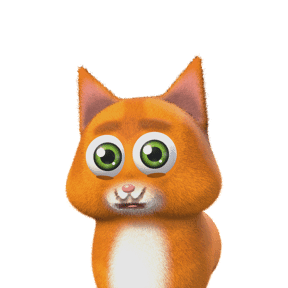
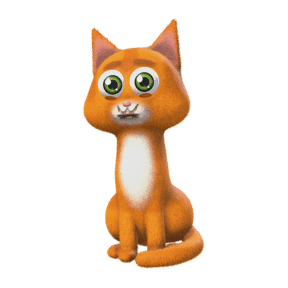
Ganze Figuren nach Vorlage, Teil 2: Mops, Retriever, Katze, Siamkatze, Hase

diff --git a/tools/figuren_rendern/Tiere.swift b/tools/figuren_rendern/Tiere.swift
@@ -563,15 +563,17 @@ func katzenFigur(_ art: KatzenArt) -> (SCNNode, Float, V) {
     let maul = mitMaul(mitB, Maul(kurven: [Kurve(punkte: [V(0, -0.08, 0.84), V(0, -0.15, 0.84)], spitzHinten: false)]
         + paar(Kurve(punkte: [V(0, -0.15, 0.84), V(0.06, -0.20, 0.83), V(0.12, -0.19, 0.80), V(0.17, -0.14, 0.76)], spitzVorn: false)),
         r: 0.018, farbe: art.braue, staerke: 0.8, hoehlen: hoehle, innen: hex("#93323A")))
-    let bau = Bau(brust: 1.15, tiefe: 1.2, hals: 0.42, bein: 0.16, beinAbstand: 0.24, ruecken: 0.70)
-    let koerper = brustbild(maul, vierbeiner(bau), farbe: { p, _ in art.rumpf(p) })
-    let w = SCNNode(); w.addChildNode(brustKnoten(koerper))
+    // Sitzend, schlank, der Schwanz legt sich vorn um die Pfoten.
+    let sitz = sitzLeib(Sitz(breite: 0.85, bein: 0.14, keule: 0.95,
+        schwanz: [V(0.60, -2.45, -0.60), V(0.85, -2.58, 0.10), V(0.55, -2.62, 0.62), V(0.05, -2.64, 0.78)], schwanzR: [0.14, 0.14, 0.13, 0.10]))
+    let koerper = brustbild(maul, sitz.formen, farbe: { p, _ in art.rumpf(p) })
+    let w = SCNNode(); w.addChildNode(ganzKnoten(koerper))
     trickNase(w, mitte: V(0, -0.03, 0.85), r: V(0.07, 0.045, 0.045), farbe: art.nase)
     zunge(w, mitte: V(0, -0.24, 0.76), breite: 0.10, hoehe: 0.08, offen: 0.0)
     augenEinsetzen(w, kopf, x: 0.27, y: 0.30, r: 0.15, tiefe: 0.24, iris: art.iris,
                    pupille: 0.55, ausdruck: Ausdruck(oben: 0.06, unten: 0.0, schraeg: 0.04, funke: 1.6, groesse: 1.65))
     w.eulerAngles = SCNVector3(0.05, -0.22, 0.06)
-    return (w, 7.6, V(0, 0.20, 0))
+    return (w, 9.3, V(0, -1.0, 0))
 }
 
 func katze() -> (SCNNode, Float, V) {
@@ -602,6 +604,7 @@ struct Sitz {
     var keule: Float = 1           // Groesse der Hinterkeulen
     var schwanz: [V] = []
     var schwanzR: [Float] = []
+    var kurz: Float = 1            // < 1: gedrungener Leib unter einem grossen Kopf (Hase, Mops)
 }
 struct SitzTeile { var formen: [Form]; var beine: [Form]; var pfoten: [Form]; var schwanz: [Form] }
 func sitzLeib(_ s: Sitz) -> SitzTeile {
@@ -619,7 +622,13 @@ func sitzLeib(_ s: Sitz) -> SitzTeile {
         pfoten.append(Form(art: .ellipsoid(V(s.bein * 1.05, 0.10, s.bein * 1.5)), mitte: V(0.29 * b * x, -2.62, 0.56), weich: 0.08))
     }
     let schwanz = s.schwanz.count > 1 ? glied(s.schwanz, s.schwanzR) : []
-    return SitzTeile(formen: f + beine + pfoten + schwanz, beine: beine, pfoten: pfoten, schwanz: schwanz)
+    // Stauchen um den Halsansatz (y = -0,6): Lage und Hoehe aller Teile.
+    func kurz(_ g: [Form]) -> [Form] {
+        guard s.kurz != 1 else { return g }
+        return g.map { var h = $0; h.mitte.y = -0.6 + (h.mitte.y + 0.6) * s.kurz; h.stauchung.y *= s.kurz; return h }
+    }
+    let (fk, bk, pk, sk) = (kurz(f), kurz(beine), kurz(pfoten), kurz(schwanz))
+    return SitzTeile(formen: fk + bk + pk + sk, beine: bk, pfoten: pk, schwanz: sk)
 }
 func nahe(_ p: V, _ formen: [Form], _ r: Float = 0.16) -> Float { glatt(r, 0.02, formen.map { $0.abstand(p) }.min() ?? 1) }
 
@@ -811,19 +820,19 @@ func hase() -> (SCNNode, Float, V) {
     let maul = mitMaul(braue, Maul(kurven: [Kurve(punkte: [V(0, -0.14, 0.97), V(0, -0.21, 0.96), V(0, -0.25, 0.94)], spitzHinten: false)]
         + paar(Kurve(punkte: [V(0, -0.25, 0.94), V(0.08, -0.28, 0.92), V(0.16, -0.25, 0.87), V(0.22, -0.19, 0.80)], spitzVorn: false)),
         r: 0.022, farbe: hex("#6E5550"), staerke: 0.85, hoehlen: hoehle, innen: hex("#5C1C20")))
-    let bau = Bau(brust: 1.25, tiefe: 1.15, hals: 0.45, halsLaenge: 1.0, bein: 0.18, beinAbstand: 0.26, beinOben: -1.20, ruecken: 0.80, rueckenLaenge: 1.0, rueckenHoehe: -1.15)
-    var rumpf = vierbeiner(bau)
-    for s: Float in [-1, 1] { rumpf.append(Form(art: .ellipsoid(V(0.16, 0.20, 0.16)), mitte: V(s * 0.30, -1.25, 0.78), weich: 0.10)) }
-    let koerper = brustbild(maul, rumpf, farbe: { p, _ in
-        mische(farbeMitRauschen(grau, p, 0.06), hell, region(p, V(0, -1.15, 0.80), V(0.42, 0.60, 0.40), 0.35))
+    // Sitzend aufrecht wie in der Vorlage: kompakt, kleine Vorderpfoten, heller flauschiger Bauch.
+    let sitz = sitzLeib(Sitz(breite: 1.05, bein: 0.14, keule: 1.25,
+        schwanz: [V(0, -2.20, -1.15), V(0, -2.15, -1.25)], schwanzR: [0.20, 0.18], kurz: 0.62))
+    let koerper = brustbild(maul, sitz.formen, farbe: { p, _ in
+        mische(farbeMitRauschen(grau, p, 0.06), hell, max(region(p, V(0, -1.45, 0.60), V(0.45, 0.75, 0.45), 0.35), nahe(p, sitz.pfoten) * 0.6))
     })
-    let w = SCNNode(); w.addChildNode(brustKnoten(koerper))
+    let w = SCNNode(); w.addChildNode(ganzKnoten(koerper))
     trickNase(w, mitte: V(0, -0.09, 0.98), r: V(0.07, 0.05, 0.05), farbe: hex("#E08B86"))
     zunge(w, mitte: V(0, -0.28, 0.90), breite: 0.10, hoehe: 0.09, offen: 0)
     augenEinsetzen(w, kopf, x: 0.30, y: 0.16, r: 0.16, tiefe: 0.24, iris: NSColor(calibratedRed: 0.30, green: 0.17, blue: 0.09, alpha: 1),
                    pupille: 0.62, ausdruck: Ausdruck(oben: 0.04, unten: 0.0, schraeg: 0.08, funke: 1.5, groesse: 1.75))
     w.eulerAngles = SCNVector3(0.04, -0.12, 0.02)
-    return (w, 8.6, V(0, 0.45, 0))
+    return (w, 10.0, V(0, -0.8, 0))
 }
 
 // ---------- Reh ----------
@@ -955,11 +964,13 @@ func hund() -> (SCNNode, Float, V) {
         + (zu ? paar(Kurve(punkte: [V(0, -0.20, 1.11), V(0.12, -0.23, 1.06), V(0.24, -0.19, 0.98), V(0.31, -0.11, 0.90)], spitzVorn: false))
               : paar(Kurve(punkte: [V(0.28, -0.20, 0.99), V(0.34, -0.13, 0.92), V(0.37, -0.05, 0.85)]))),
         r: 0.024, farbe: dunkel, staerke: 0.8, hoehlen: hoehle, innen: hex("#93323A")))
-    let bau = Bau(brust: 1.35, tiefe: 1.4, hals: 0.50, bein: 0.20, beinAbstand: 0.28, ruecken: 0.80)
-    let koerper = brustbild(maul, vierbeiner(bau), farbe: { p, _ in
-        mische(farbeMitRauschen(gold, p, 0.05), hell, latz(p, breite: 0.35) * 0.6)
+    // Sitzend wie in der Vorlage, flauschige helle Brust, buschiger Schwanz seitlich; ohne Halsband (eigene Figur).
+    let sitz = sitzLeib(Sitz(breite: 1.15, bein: 0.20, keule: 1.15,
+        schwanz: [V(-0.55, -2.40, -0.85), V(-1.25, -2.30, -0.45), V(-1.65, -1.85, -0.20), V(-1.80, -1.35, -0.10)], schwanzR: [0.18, 0.28, 0.26, 0.12]))
+    let koerper = brustbild(maul, sitz.formen, farbe: { p, _ in
+        mische(farbeMitRauschen(gold, p, 0.05), hell, latz(p, breite: 0.38) * 0.6)
     })
-    let w = SCNNode(); w.addChildNode(brustKnoten(koerper))
+    let w = SCNNode(); w.addChildNode(ganzKnoten(koerper))
     trickNase(w, mitte: V(0, 0.02, 1.18), r: V(0.20, 0.13, 0.12), farbe: hex("#141011"))
     zunge(w, mitte: V(0, -0.22, 1.04), breite: 0.24, hoehe: 0.20, offen: 0.85)
     // Die Zunge haengt vorn ueber die Unterlippe hinaus wie in der Vorlage (nur bei offenem Maul).
@@ -970,7 +981,7 @@ func hund() -> (SCNNode, Float, V) {
     augenEinsetzen(w, kopf, x: 0.25, y: 0.38, r: 0.15, tiefe: 0.24, iris: NSColor(calibratedRed: 0.34, green: 0.19, blue: 0.08, alpha: 1),
                    pupille: 0.64, ausdruck: Ausdruck(oben: 0.06, unten: 0.0, schraeg: 0.10, funke: 1.5, groesse: 1.5))
     w.eulerAngles = SCNVector3(0.02, -0.30, 0.10)
-    return (w, 7.8, V(0, 0.22, 0))
+    return (w, 9.5, V(0, -1.0, 0))
 }
 
 // ---------- Eule (Waldkauz) ----------
@@ -1497,17 +1508,19 @@ func mops() -> (SCNNode, Float, V) {
     let maul = mitMaul(mitB, Maul(kurven: [Kurve(punkte: [V(0, -0.14, 0.94), V(0, -0.28, 0.90)], spitzHinten: false)]
         + paar(Kurve(punkte: [V(0, -0.28, 0.90), V(0.10, -0.33, 0.86), V(0.22, -0.30, 0.78), V(0.30, -0.22, 0.68)], spitzVorn: false)),
         r: 0.024, farbe: hex("#0E0A0A"), staerke: 0.9, hoehlen: hoehle, innen: hex("#93323A")))
-    let bau = Bau(brust: 2.0, tiefe: 1.5, hals: 0.62, halsLaenge: 1.1, bein: 0.33, beinAbstand: 0.40, beinOben: -1.30, ruecken: 1.0, rueckenLaenge: 1.3)
-    let koerper = brustbild(maul, vierbeiner(bau), farbe: { p, _ in
-        mische(farbeMitRauschen(beige, p, 0.04), hell, latz(p, breite: 0.35) * 0.5)
+    // Sitzend wie in der Vorlage: kompakt, kurze kraeftige Vorderbeine, helle Brust, Ringelschwanz hinten.
+    let sitz = sitzLeib(Sitz(breite: 1.20, bein: 0.21, keule: 1.15,
+        schwanz: [V(0.0, -1.95, -1.15), V(0.25, -1.65, -1.25), V(0.10, -1.45, -1.10)], schwanzR: [0.14, 0.12, 0.08], kurz: 0.82))
+    let koerper = brustbild(maul, sitz.formen, farbe: { p, _ in
+        mische(farbeMitRauschen(beige, p, 0.04), hell, latz(p, breite: 0.38) * 0.5)
     })
-    let w = SCNNode(); w.addChildNode(brustKnoten(koerper))
+    let w = SCNNode(); w.addChildNode(ganzKnoten(koerper))
     trickNase(w, mitte: V(0, -0.04, 0.95), r: V(0.14, 0.09, 0.08), farbe: hex("#100C0C"))
     zunge(w, mitte: V(0, -0.36, 0.84), breite: 0.13, hoehe: 0.10, offen: 0.0)
     augenEinsetzen(w, kopf, x: 0.32, y: 0.28, r: 0.16, tiefe: 0.24, iris: NSColor(calibratedRed: 0.34, green: 0.18, blue: 0.08, alpha: 1),
                    pupille: 0.50, ausdruck: Ausdruck(oben: 0.04, unten: 0.0, schraeg: 0.12, funke: 1.6, groesse: 1.65), irisAnteil: 0.84)
     w.eulerAngles = SCNVector3(0.04, -0.15, 0.03)
-    return (w, 7.6, V(0, 0.18, 0))
+    return (w, 9.3, V(0, -1.0, 0))
 }
 
 func siamkatze() -> (SCNNode, Float, V) {

diff --git a/docs/ios-huelle-journal.md b/docs/ios-huelle-journal.md
@@ -7,12 +7,12 @@ gehoert ebenfalls hierher — nicht stillschweigend uebersprungen. Neueste Eintr
 
 ---
 
-## ÜBERGABE an die naechste Sitzung (Stand 2026-10-31, nach Runde 206)
+## ÜBERGABE an die naechste Sitzung (Stand 2026-11-01, nach Runde 207)
 
 **Lies NUR diesen Block.** Er genuegt allein; die Eintraege darunter sind Begruendungen zum
 Nachschlagen. Dazu `tools/xcode-CLAUDE.md` (liegt als `ios/App/CLAUDE.md` neben der `.xcodeproj`
 und wird von Xcode geladen) und die `CLAUDE.md` im Wurzelverzeichnis. Zuletzt vollstaendig
-durchgesehen nach Runde 206 — es gilt dieser Block, nicht aeltere Fassungen.
+durchgesehen nach Runde 207 — es gilt dieser Block, nicht aeltere Fassungen.
 
 ### Wie der Inhaber arbeitet
 
@@ -67,7 +67,8 @@ Regeln, die er gesetzt hat:
 
 | Runde | Commit | Inhalt |
 | --- | --- | --- |
-| 206 | (dieser) | Ganze Figuren nach Vorlage, Teil 1: Baer, Panda, Fuchs; Rahmen an der ganzen Figur |
+| 207 | (dieser) | Ganze Figuren, Teil 2: Mops, Retriever, Katze, Siamkatze, Hase (sitzend) |
+| 206 | `4281fd0` | Ganze Figuren nach Vorlage, Teil 1: Baer, Panda, Fuchs; Rahmen an der ganzen Figur |
 | 205 | `e2aca74` | Nachgebessert: Muender nach Vorlagen, eigener Panda, Eule, Papagei (Fluegel offen), Flamingo, Rotkehlchen, Mops, Seeotter, Siamkatze |
 | 204 | `4376b7f` | Trickfilm-Stil, Teil 4: Pinguin (klein), Delfin, Wal, Schildkroete, Clownfisch (8 Sprachen), Katze, Siamkatze, Seeotter, Flamingo, Rotkehlchen |
 | 203 | `c6a84c3` | Trickfilm-Stil, Teil 3: Retriever, Eule, Papagei |
@@ -419,19 +420,30 @@ Reihenfolge fuer den Store-Start (Details: `docs/app-store-start.md`):
 ### Stand der Umgebung
 
 Simulator **iPhone 18 Pro** (iOS 27.0, `B55215E2-9318-4732-9132-F2D7FFFC18EC`), iPhone 15 Pro des Inhabers per Kabel
-(`00008130-001E79CC0178001C`); auf beiden ist der Stand von **Runde 206** installiert (iPhone-Bau mit
+(`00008130-001E79CC0178001C`); auf beiden ist der Stand von **Runde 207** installiert (iPhone-Bau mit
 `CODE_SIGN_ENTITLEMENTS=/tmp/lucenta-health.entitlements` — nur HealthKit; die Datei liegt in `/tmp`, bei Bedarf neu anlegen:
 ein plist mit `com.apple.developer.healthkit` = true. App Group laesst sich im Personal Team nicht signieren → Widget ohne Daten). Bundle-ID `app.lucenta.ios`.
 Kein eigenes Simulator-Programm in diesem Xcode. Deployment Target 15.0 (Anheben liegt beim Inhaber, s. oben) — in Xcode
 **nicht** „Update to recommended settings" akzeptieren. Kein Blender, kein Bildgenerator; SceneKit/CoreGraphics ja.
 
-Branch `claude/lucenta-setup-browser-test-j6hn7f`, **gepusht** bis Runde 206 (`git push` erlaubt); kein Pull Request ohne
+Branch `claude/lucenta-setup-browser-test-j6hn7f`, **gepusht** bis Runde 207 (`git push` erlaubt); kein Pull Request ohne
 Bitte. Arbeitsbaum sauber bis auf `ios/App/App.xcworkspace/xcshareddata/` (absichtlich unversioniert).
 Pruefstand: `pruef-alles` 9/9 (voll ~10 Min., losgeloest starten) — `tests` 10 Reihen, `pruef-app` 36, `pruef-nativ` 139,
 `fehlersuche` ohne Fund. Der PreToolUse-Hook faellt bei langen `sleep`-Befehlen oft aus: lieber `sleep 580` und danach
 einmal `tail`, als Schleifen.
 
 ---
+
+## Runde 207 — Ganze Figuren, Teil 2: Mops, Retriever, Katze, Siamkatze, Hase
+
+Alle sitzend mit `sitzLeib`: **Mops** kompakt mit kraeftigen Vorderbeinen und Ringelschwanz; **Retriever** mit
+flauschiger Brust und buschigem Schwanz seitlich, ohne Halsband (eigene Figur statt der Filmfigur); **Katze und
+Siamkatze** schlank, der Schwanz liegt vorn um die Pfoten; **Hase** gedrungen unter grossem Kopf wie die Vorlage.
+Neu: `Sitz.kurz` staucht den Leib um den Halsansatz (Hase 0,62, Mops 0,82) — mit festen Massen war der Hase hoch
+und schlank, die Vorlage ist kopflastig.
+
+Fuenf ganze Figuren zusammen brauchen mit dem groesseren Raster mehr als zehn Minuten: Rendern losgeloest starten
+(`nohup … &`) und einmal nachsehen.
 
 ## Runde 206 — Ganze Figuren nach Vorlage (Teil 1: Baer, Panda, Fuchs)
 
